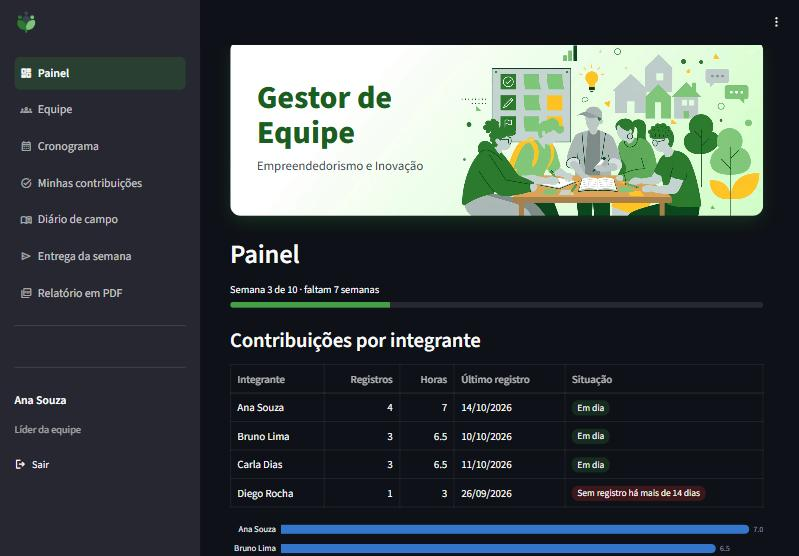
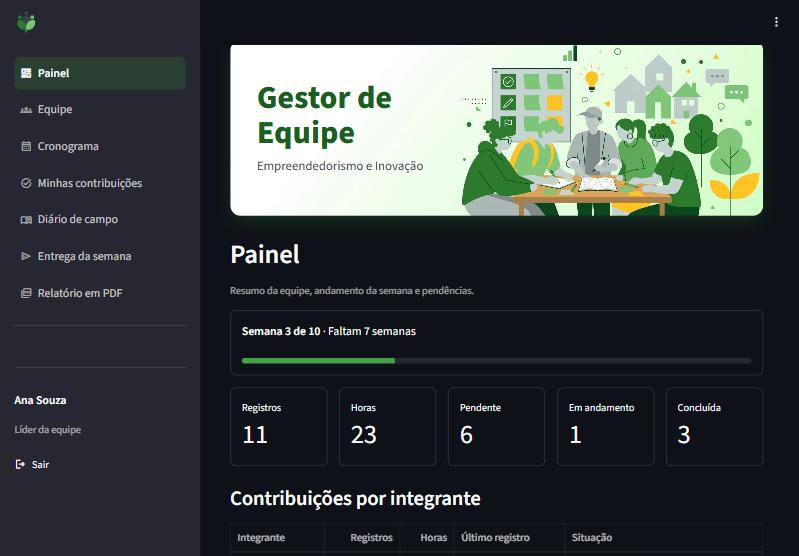
Reorganiza o Painel: cartão da semana, cartões de números e layout em duas linhas no celular

Changed region(s): [[0.2703, 0.4892, 0.9612, 1.0], [0.6909, 0.6727, 0.781, 0.795], [0.8411, 0.7032, 0.9011, 0.795]]

diff --git a/app.py b/app.py
@@ -527,16 +527,26 @@ def grafico_horas(c):
 def pg_painel(u):
     mostrar_banner()
     st.header("Painel")
+    st.caption("Resumo da equipe, andamento da semana e pendências.")
     atual = semana_atual()
     total = len(CRONOGRAMA)
     falta = total - atual
     resto = ("última semana" if falta == 0 else
              f"falta {falta} semana" if falta == 1 else f"faltam {falta} semanas")
-    st.progress(atual / total, text=f"Semana {atual} de {total} · {resto}")
+    with st.container(border=True):
+        st.markdown(f"**Semana {atual} de {total}** · {resto.capitalize()}")
+        st.progress(atual / total)
     c = q("""SELECT m.nome, COUNT(c.id) AS registros, COALESCE(SUM(c.horas),0) AS horas,
                     MAX(c.data) AS ultimo
              FROM membros m LEFT JOIN contribuicoes c ON c.membro_id = m.id
              WHERE m.ativo = 1 GROUP BY m.id ORDER BY m.nome""")
+    t = q("SELECT status, COUNT(*) AS n FROM tarefas GROUP BY status")
+    cartoes = [("Registros", int(c["registros"].sum())), ("Horas", f"{float(c['horas'].sum()):g}")]
+    cartoes += [(s, int(t.loc[t["status"] == s, "n"].sum())) for s in STATUS]
+    with st.container(key="painel_cartoes"):
+        for col, (rotulo, valor) in zip(st.columns(len(cartoes)), cartoes):
+            with col.container(border=True):
+                st.metric(rotulo, valor)
     st.subheader("Contribuições por integrante")
     limite = (date.today() - pd.Timedelta(days=DIAS_ALERTA)).isoformat()
     parado = c["ultimo"].isna() | (c["ultimo"] < limite)
@@ -550,13 +560,6 @@ def pg_painel(u):
     }), html_cols=("Situação",), numericas=("Registros", "Horas"))
     if not c.empty:
         grafico_horas(c)
-    t = q("SELECT status, COUNT(*) AS n FROM tarefas GROUP BY status")
-    st.subheader("Tarefas")
-    with st.container(key="linha_metricas"):
-        cols = st.columns(3)
-    for col, s in zip(cols, STATUS):
-        n = int(t.loc[t["status"] == s, "n"].sum())
-        col.metric(s, n)
     pend = q("""SELECT t.semana AS Semana, s.inicio AS Início, t.titulo AS Tarefa,
                        COALESCE(m.nome, '-') AS Responsável, t.status AS Status
                 FROM tarefas t JOIN semanas s ON s.semana = t.semana
@@ -1338,15 +1341,22 @@ def aplicar_estilo():
         div[class*="st-key-linha_icone_s"] [data-testid="stColumn"]:nth-child(5) {
             display: none;
         }
-        div[class*="st-key-linha_metricas"] [data-testid="stHorizontalBlock"] {
-            flex-wrap: nowrap !important;
+        div[class*="st-key-painel_cartoes"] [data-testid="stHorizontalBlock"] {
+            flex-wrap: wrap !important;
             gap: 0.5rem !important;
         }
-        div[class*="st-key-linha_metricas"] [data-testid="stColumn"] {
+        div[class*="st-key-painel_cartoes"] [data-testid="stColumn"] {
             min-width: 0 !important;
-            flex: 1 1 0 !important;
+            width: auto !important;
+            flex: 1 1 calc(33.33% - 0.4rem) !important;
         }
-        div[class*="st-key-linha_metricas"] [data-testid="stMetricLabel"] * {
+        div[class*="st-key-painel_cartoes"] [data-testid="stColumn"]:nth-child(-n+2) {
+            flex: 1 1 calc(50% - 0.3rem) !important;
+        }
+        div[class*="st-key-painel_cartoes"] [data-testid="stVerticalBlock"]:has(> [data-testid="stElementContainer"]) {
+            padding: 0.6rem 0.45rem !important;
+        }
+        div[class*="st-key-painel_cartoes"] [data-testid="stMetricLabel"] * {
             white-space: nowrap !important;
             overflow: visible !important;
             text-overflow: clip !important;
